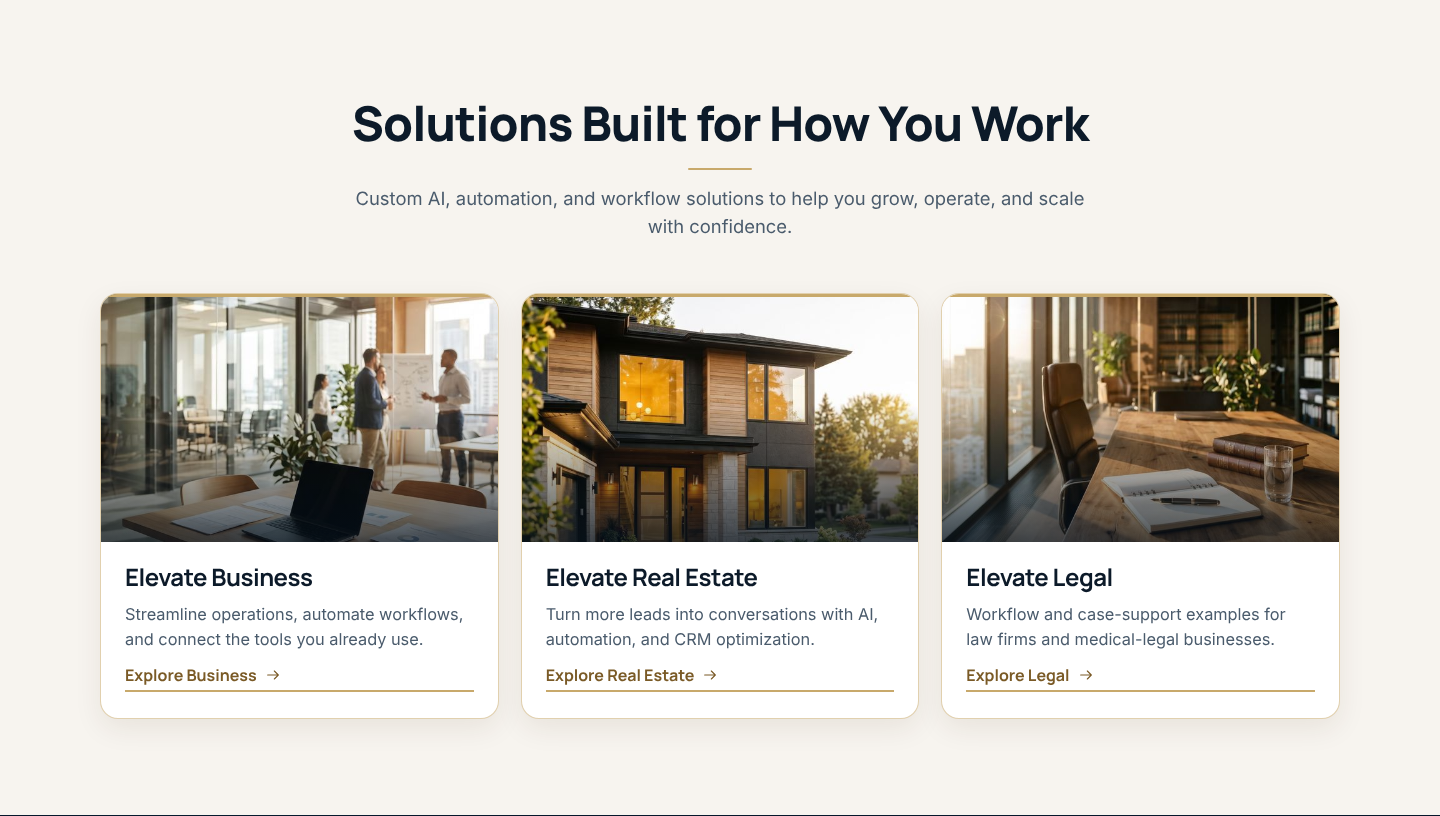
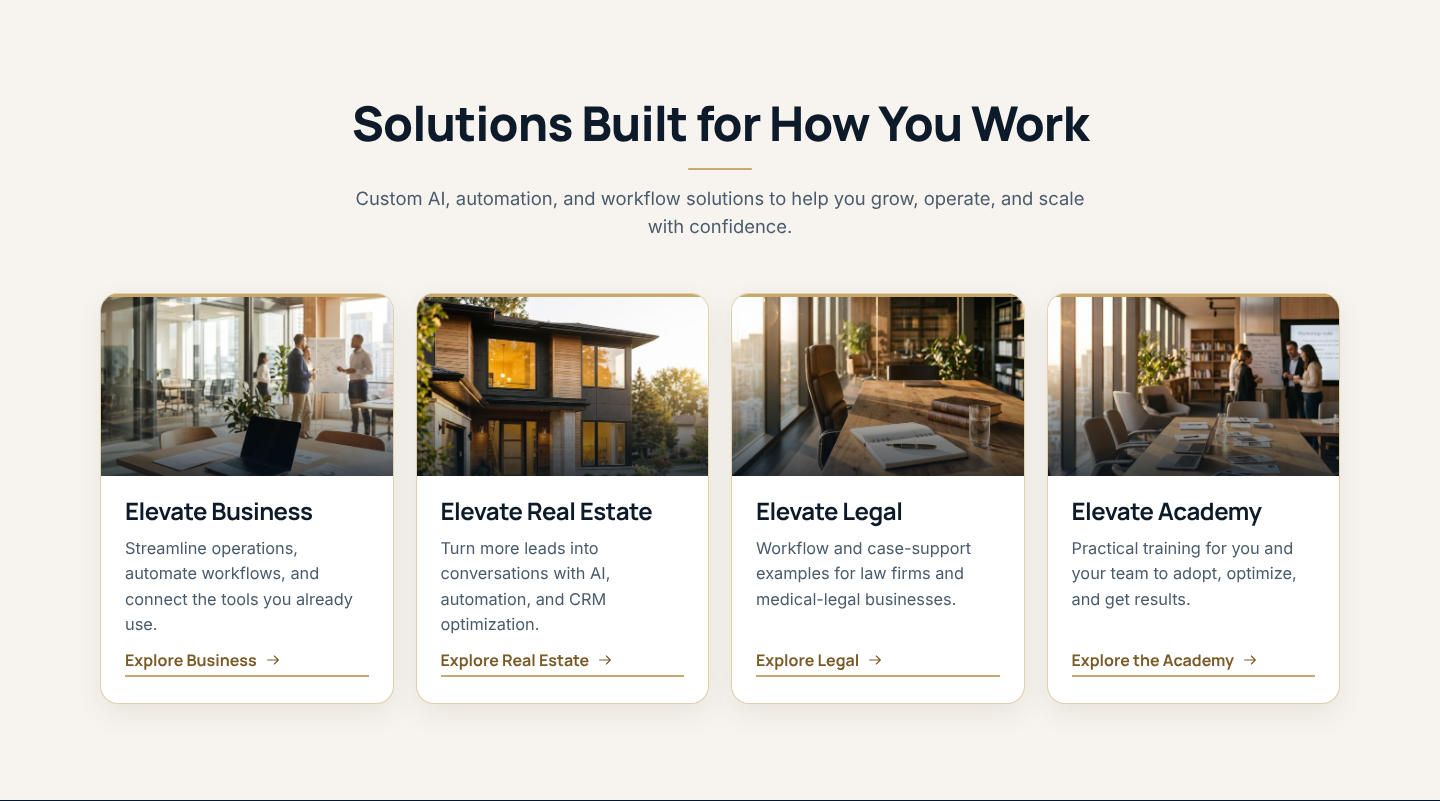
Restore Academy card, add Academy page, add eight Marblism agent faces
Claude-Session: https://claude.ai/code/session_01FHNhpcz1vSgsRca8SZZPd6

Changed region(s): [[0.0625, 0.3433, 0.9375, 0.8739], [0.25, 0.1248, 0.75, 0.3121]]

diff --git a/academy/index.html b/academy/index.html
@@ -1,0 +1,162 @@
+<!DOCTYPE html>
+<html lang="en">
+<head>
+<meta charset="utf-8">
+<meta name="viewport" content="width=device-width, initial-scale=1">
+<title>Elevate Academy | Elevate Ops 360</title>
+<meta name="description" content="Events calendar, training videos, and a link to the Parsons Learning Academy from Elevate Ops 360.">
+<link rel="canonical" href="https://www.elevateops360.com/academy/">
+<link rel="preload" href="/fonts/manrope-latin-wght-normal.woff2" as="font" type="font/woff2" crossorigin>
+<link rel="preload" href="/fonts/inter-latin-wght-normal.woff2" as="font" type="font/woff2" crossorigin>
+<link rel="stylesheet" href="/styles.css">
+<link rel="stylesheet" href="/qa-fixes.css">
+<link rel="stylesheet" href="/hybrid.css">
+<link rel="stylesheet" href="/solutions.css">
+<link rel="stylesheet" href="/academy/academy.css">
+<link rel="icon" type="image/png" href="/assets/favicon-official-64.png">
+</head>
+<body>
+<!-- Icon sprite -->
+<svg width="0" height="0" style="position:absolute" aria-hidden="true">
+  <symbol id="i-user" viewBox="0 0 24 24"><circle cx="9" cy="8" r="3.5"/><path d="M2.5 20c.6-3.6 3.3-5.5 6.5-5.5s5.9 1.9 6.5 5.5M18 8v6M15 11h6"/></symbol>
+  <symbol id="i-chat" viewBox="0 0 24 24"><path d="M4 5h16v11H10l-4.5 3.5V16H4z"/><path d="M8.5 10.5h.01M12 10.5h.01M15.5 10.5h.01"/></symbol>
+  <symbol id="i-layers" viewBox="0 0 24 24"><path d="m12 3 9 4.5-9 4.5-9-4.5z"/><path d="m3 12 9 4.5 9-4.5M3 16.5 12 21l9-4.5"/></symbol>
+  <symbol id="i-cal" viewBox="0 0 24 24"><rect x="3.5" y="5" width="17" height="15" rx="2.5"/><path d="M3.5 10h17M8 3v4M16 3v4M9 15l2.2 2.2L15.5 13"/></symbol>
+  <symbol id="i-bolt" viewBox="0 0 24 24"><path d="M13 2.5 5 13.5h6l-1 8 8-11h-6z"/></symbol>
+  <symbol id="i-chart" viewBox="0 0 24 24"><path d="M4 20V10M10 20V4M16 20v-8M22 20H2"/></symbol>
+  <symbol id="i-brief" viewBox="0 0 24 24"><rect x="3" y="7" width="18" height="13" rx="2.5"/><path d="M8.5 7V5a1.5 1.5 0 0 1 1.5-1.5h4A1.5 1.5 0 0 1 15.5 5v2M3 13h18"/></symbol>
+  <symbol id="i-home" viewBox="0 0 24 24"><path d="m3 11 9-7.5 9 7.5M5.5 9.5V20h13V9.5M10 20v-6h4v6"/></symbol>
+  <symbol id="i-scale" viewBox="0 0 24 24"><path d="M12 3v18M7 21h10M5 7h14M5 7l-3 7a3.5 3.5 0 0 0 6 0zM19 7l-3 7a3.5 3.5 0 0 0 6 0z"/></symbol>
+  <symbol id="i-cap" viewBox="0 0 24 24"><path d="m2 9 10-5 10 5-10 5z"/><path d="M6 11.5V16c0 1.4 2.7 3 6 3s6-1.6 6-3v-4.5M22 9v6"/></symbol>
+  <symbol id="i-play" viewBox="0 0 24 24"><circle cx="12" cy="12" r="9.5"/><path d="m10 8.5 5 3.5-5 3.5z" fill="currentColor"/></symbol>
+  <symbol id="i-arrow" viewBox="0 0 24 24"><path d="M4 12h16M14 6l6 6-6 6"/></symbol>
+  <symbol id="i-check" viewBox="0 0 24 24"><circle cx="12" cy="12" r="9.5"/><path d="m8 12.3 2.8 2.8L16 9.5"/></symbol>
+  <symbol id="i-grid" viewBox="0 0 24 24"><rect x="3.5" y="3.5" width="7" height="7" rx="1.5"/><rect x="13.5" y="3.5" width="7" height="7" rx="1.5"/><rect x="3.5" y="13.5" width="7" height="7" rx="1.5"/><rect x="13.5" y="13.5" width="7" height="7" rx="1.5"/></symbol>
+  <symbol id="i-funnel" viewBox="0 0 24 24"><path d="M3 4h18l-7 8.5V20l-4-2v-5.5z"/></symbol>
+  <symbol id="i-gear" viewBox="0 0 24 24"><circle cx="12" cy="12" r="3.2"/><path d="M12 2.5v3M12 18.5v3M2.5 12h3M18.5 12h3M5.3 5.3l2.1 2.1M16.6 16.6l2.1 2.1M18.7 5.3l-2.1 2.1M7.4 16.6l-2.1 2.1"/></symbol>
+  <symbol id="i-bot" viewBox="0 0 24 24"><rect x="4" y="8" width="16" height="11" rx="3"/><path d="M12 4v4M9 13.5h.01M15 13.5h.01M9 16.5h6"/></symbol>
+  <symbol id="i-plug" viewBox="0 0 24 24"><path d="M9 3v5M15 3v5M6 8h12v3a6 6 0 0 1-12 0zM12 17v4"/></symbol>
+  <symbol id="i-doc" viewBox="0 0 24 24"><path d="M6 3h8l4 4v14H6z"/><path d="M14 3v4h4M9 12h6M9 16h6"/></symbol>
+  <symbol id="i-search" viewBox="0 0 24 24"><circle cx="11" cy="11" r="6.5"/><path d="m16 16 5 5"/></symbol>
+  <symbol id="i-people" viewBox="0 0 24 24"><circle cx="9" cy="8" r="3.2"/><circle cx="17" cy="9.5" r="2.5"/><path d="M2.5 20c.5-3.4 3-5.2 6.5-5.2s6 1.8 6.5 5.2M16 14.6c2.6.1 4.6 1.5 5 4.4"/></symbol>
+  <symbol id="i-shield" viewBox="0 0 24 24"><path d="M12 3 4.5 6v6c0 4.6 3.2 7.8 7.5 9 4.3-1.2 7.5-4.4 7.5-9V6z"/><path d="m9 12 2.2 2.2L15.5 10"/></symbol>
+</svg>
+
+
+<a class="skip" href="#main">Skip to main content</a>
+<header class="site-header">
+  <nav class="wrap nav" aria-label="Primary">
+    <a class="brand" href="/" aria-label="Elevate Ops 360 home"><img src="/assets/mark-official-108.png" alt="" width="54" height="52"><span class="brand-text">Elevate <span>Ops 360</span></span></a>
+    <button class="menu-btn" aria-expanded="false" aria-controls="primary-nav" aria-label="Open menu">&#9776;</button>
+    <ul class="nav-links" id="primary-nav">
+      <li><a href="/solutions/">Solutions</a></li>
+      <li><a href="/solutions/real-estate/">Real Estate</a></li>
+      <li><a href="/solutions/business/">Business</a></li>
+      <li><a href="/solutions/legal/">Legal</a></li>
+      <li><a href="/#nexus">Nexus</a></li>
+      <li><a href="/academy/" aria-current="page">Academy</a></li>
+      <li class="nav-cta-m"><a class="btn btn-gold btn-sm" href="https://calendly.com/sherriparsonsrealestate/elevate-ai-onboarding">Book an AI Strategy Call</a></li>
+    </ul>
+    <a class="btn btn-gold nav-cta" href="https://calendly.com/sherriparsonsrealestate/elevate-ai-onboarding"><svg class="icon"><use href="#i-cal"/></svg>Book an AI Strategy Call</a>
+  </nav>
+</header>
+<main id="main" tabindex="-1">
+<section class="sec ac-hero">
+  <div class="wrap">
+    <p class="eyebrow">Elevate Academy</p>
+    <h1>Learn to put AI to work in your business.</h1>
+    <p class="lede">Live training, recordings, and hands-on learning to help you and your team adopt, optimize, and get results.</p>
+    <div class="cta-row">
+      <a class="btn btn-gold" href="#events">See Upcoming Events</a>
+      <a class="btn btn-ghost" href="#learning-academy">Parsons Learning Academy</a>
+    </div>
+  </div>
+</section>
+
+<section class="sec" id="events" aria-labelledby="ev-h">
+  <div class="wrap">
+    <div class="sec-head"><h2 id="ev-h">Events <span>calendar</span></h2><p>Live trainings and masterclasses from Elevate Ops 360.</p></div>
+    <div class="cal">
+      <div class="cal-bar">
+        <button type="button" class="btn btn-ghost btn-sm" id="cal-prev" aria-label="Previous month">&larr;</button>
+        <h3 id="cal-title" aria-live="polite"></h3>
+        <button type="button" class="btn btn-ghost btn-sm" id="cal-next" aria-label="Next month">&rarr;</button>
+      </div>
+      <div class="cal-grid" id="cal-grid"></div>
+    </div>
+    <h3 class="ev-list-h">All events</h3>
+    <ul class="ev-list" id="ev-list"></ul>
+    <p class="fine" id="ev-empty" hidden>No upcoming events are scheduled right now. Check back soon.</p>
+  </div>
+</section>
+
+<section class="sec" id="videos" aria-labelledby="vid-h">
+  <div class="wrap">
+    <div class="sec-head"><h2 id="vid-h">Training <span>videos</span></h2><p>Recordings and walkthroughs will appear here.</p></div>
+    <div class="vid-grid">
+      <article class="vid"><div class="vid-ph" role="img" aria-label="Video placeholder"><svg class="icon" aria-hidden="true"><use href="#i-play"/></svg></div><h3>Video title coming soon</h3><p>Placeholder for a training recording.</p></article>
+      <article class="vid"><div class="vid-ph" role="img" aria-label="Video placeholder"><svg class="icon" aria-hidden="true"><use href="#i-play"/></svg></div><h3>Video title coming soon</h3><p>Placeholder for a training recording.</p></article>
+      <article class="vid"><div class="vid-ph" role="img" aria-label="Video placeholder"><svg class="icon" aria-hidden="true"><use href="#i-play"/></svg></div><h3>Video title coming soon</h3><p>Placeholder for a training recording.</p></article>
+    </div>
+  </div>
+</section>
+
+<section class="sec" id="learning-academy" aria-labelledby="pla-h">
+  <div class="wrap">
+    <div class="pla">
+      <div><h2 id="pla-h">Parsons Learning <span>Academy</span></h2><p>Go deeper with self-paced courses and learning paths in our Parsons Learning Academy.</p></div>
+      <a class="btn btn-gold" id="pla-link" href="https://train.elevateops360.com" target="_blank" rel="noopener">Open the Parsons Learning Academy<span class="sr-only"> (opens in a new tab)</span></a>
+    </div>
+  </div>
+</section>
+</main>
+<footer class="foot"><div class="wrap"><div class="foot-grid"><div><a class="brand" href="/"><img src="/assets/mark-official-108.png" alt="" width="54" height="52"><span class="brand-text">Elevate <span>Ops 360</span></span></a><p style="margin-top:14px;max-width:34ch">Business Problems. Smarter Solutions. Real Results.</p></div><div><h3>Explore</h3><ul><li><a href="/solutions/">Solutions</a></li><li><a href="/solutions/real-estate/">Real Estate</a></li><li><a href="/solutions/business/">Business</a></li><li><a href="/solutions/legal/">Legal</a></li><li><a href="/nexus/">Nexus</a></li><li><a href="/trainyourbrain/">Training</a></li></ul></div><div><h3>Get started</h3><ul><li><a href="https://calendly.com/sherriparsonsrealestate/elevate-ai-onboarding">Book an AI Strategy Call</a></li><li><a href="/live/">Live events</a></li><li><a href="mailto:hello@elevateops360.com">hello@elevateops360.com</a></li></ul></div></div><div class="legal"><span>&copy; 2026 Elevate Ops 360.</span><span><a href="/privacy.html">Privacy Policy</a> &middot; <a href="mailto:hello@elevateops360.com">hello@elevateops360.com</a></span></div></div></footer>
+<script>
+(function(){
+/* Add events here. date = YYYY-MM-DD (end optional). */
+var EVENTS=[
+ {title:"Train Your Marblism Company Brain (5-day live series)",date:"2026-10-26",end:"2026-10-30",time:"4 PM Eastern",url:"/trainyourbrain/"},
+ {title:"CRM Masterclass",date:"2026-11-17",time:"",url:"/live/"}
+];
+var MN=["January","February","March","April","May","June","July","August","September","October","November","December"];
+var today=new Date(),y=today.getFullYear(),m=today.getMonth();
+function pd(s){var a=s.split("-");return new Date(+a[0],+a[1]-1,+a[2]);}
+function key(d){return d.getFullYear()+"-"+(d.getMonth()+1)+"-"+d.getDate();}
+function eventsOn(d){return EVENTS.filter(function(e){var s=pd(e.date),f=pd(e.end||e.date);return d>=s&&d<=f;});}
+function render(){
+ document.getElementById("cal-title").textContent=MN[m]+" "+y;
+ var g=document.getElementById("cal-grid");g.innerHTML="";
+ ["Sun","Mon","Tue","Wed","Thu","Fri","Sat"].forEach(function(n){var h=document.createElement("div");h.className="cal-h";h.textContent=n;g.appendChild(h);});
+ var first=new Date(y,m,1).getDay(),days=new Date(y,m+1,0).getDate();
+ for(var i=0;i<first;i++){var e=document.createElement("div");e.className="cal-d empty";g.appendChild(e);}
+ for(var d=1;d<=days;d++){
+  var dt=new Date(y,m,d),ev=eventsOn(dt),c=document.createElement("div");
+  c.className="cal-d"+(ev.length?" has":"")+(key(dt)===key(today)?" today":"");
+  c.innerHTML='<span class="n">'+d+'</span>';
+  ev.forEach(function(x){var a=document.createElement("a");a.href=x.url;a.className="cal-e";a.textContent=x.title;c.appendChild(a);});
+  g.appendChild(c);
+ }
+}
+document.getElementById("cal-prev").onclick=function(){m--;if(m<0){m=11;y--;}render();};
+document.getElementById("cal-next").onclick=function(){m++;if(m>11){m=0;y++;}render();};
+render();
+var ul=document.getElementById("ev-list"),now=new Date(today.getFullYear(),today.getMonth(),today.getDate());
+var sorted=EVENTS.slice().sort(function(a,b){return pd(b.date)-pd(a.date);});
+var upcoming=0;
+sorted.forEach(function(e){
+ var s=pd(e.date),f=pd(e.end||e.date),past=f<now;if(!past)upcoming++;
+ var fmt=function(d){return MN[d.getMonth()].slice(0,3)+" "+d.getDate()+", "+d.getFullYear();};
+ var li=document.createElement("li");li.className="ev"+(past?" past":"");
+ li.innerHTML='<div><b></b><span class="when"></span></div><span class="tag"></span>';
+ li.querySelector("b").innerHTML='<a href="'+e.url+'"></a>';li.querySelector("a").textContent=e.title;
+ li.querySelector(".when").textContent=fmt(s)+(e.end?" to "+fmt(f):"")+(e.time?" · "+e.time:"");
+ li.querySelector(".tag").textContent=past?"Past event":"Upcoming";
+ ul.appendChild(li);
+});
+if(!upcoming)document.getElementById("ev-empty").hidden=false;
+var b=document.querySelector('.menu-btn'),n=document.getElementById('primary-nav');
+if(b&&n)b.addEventListener('click',function(){var o=n.classList.toggle('open');b.setAttribute('aria-expanded',o);b.setAttribute('aria-label',o?'Close menu':'Open menu');});
+})();
+</script>
+</body>
+</html>

diff --git a/index.html b/index.html
@@ -54,7 +54,7 @@
       <li><a href="#solutions">Solutions</a></li>
       <li><a href="#industries">Industries</a></li>
       <li><a href="#nexus">Nexus</a></li>
-      <li><a href="/trainyourbrain/">Academy</a></li>
+      <li><a href="/academy/">Academy</a></li>
       <li><a href="#about">About</a></li>
       <li class="nav-cta-m"><a class="btn btn-gold btn-sm" href="#consult">Book an AI Strategy Call</a></li>
     </ul>
@@ -205,7 +205,7 @@
       <h2>Solutions Built for <span>How You Work</span></h2>
       <p>Custom AI, automation, and workflow solutions to help you grow, operate, and scale with confidence.</p>
     </div>
-    <div class="cards4 cards3">
+    <div class="cards4">
       <article class="sol"><div class="sol-top t1 has-img"><img src="/assets/card-business.jpg" alt="Modern conference room with a team gathered around a table" width="640" height="397" decoding="async"></div>
         <div class="sol-body"><h3>Elevate Business</h3><p>Streamline operations, automate workflows, and connect the tools you already use.</p>
         <a class="more" href="/solutions/business/">Explore Business <svg class="icon"><use href="#i-arrow"/></svg></a></div></article>
@@ -215,6 +215,9 @@
       <article class="sol"><div class="sol-top t3 has-img"><img src="/assets/card-legal.jpg" alt="Bright office desk with a notebook and law books" width="640" height="397" decoding="async"></div>
         <div class="sol-body"><h3>Elevate Legal</h3><p>Workflow and case-support examples for law firms and medical-legal businesses.</p>
         <a class="more" href="/solutions/legal/">Explore Legal <svg class="icon"><use href="#i-arrow"/></svg></a></div></article>
+      <article class="sol" id="academy"><div class="sol-top t4 has-img"><img src="/assets/card-academy.jpg" alt="Conference room set up for a training session" width="640" height="397" loading="lazy" decoding="async"></div>
+        <div class="sol-body"><h3>Elevate Academy</h3><p>Practical training for you and your team to adopt, optimize, and get results.</p>
+        <a class="more" href="/academy/">Explore the Academy <svg class="icon"><use href="#i-arrow"/></svg></a></div></article>
     </div>
   </div>
 </section>
@@ -353,7 +356,7 @@
       <p class="lead">Marblism gives you AI employees that handle everyday work such as email, scheduling, social media, lead follow-up, your website, search visibility, calls, and more. Elevate Ops 360 helps you choose, set up, and put them to work.</p>
     </div>
 
-    <ul class="agents" aria-label="Marblism AI employees"><li class="agent-card"><span class="face" data-agent="eva" aria-hidden="true">E</span><div><b>Eva</b><span class="role">Executive Assistant</span><span class="what">Emails answered, meetings booked, notes taken.</span></div></li><li class="agent-card"><span class="face" data-agent="sonny" aria-hidden="true">S</span><div><b>Sonny</b><span class="role">Social Media Manager</span><span class="what">Spots what is trending and creates posts and videos for your business.</span></div></li><li class="agent-card"><span class="face" data-agent="stan" aria-hidden="true">S</span><div><b>Stan</b><span class="role">Lead Generation</span><span class="what">Finds ideal customers and follows up until they reply.</span></div></li><li class="agent-card"><span class="face" data-agent="walter" aria-hidden="true">W</span><div><b>Walter</b><span class="role">Website Builder</span><span class="what">Builds your website and keeps improving it after launch.</span></div></li><li class="agent-card"><span class="face" data-agent="penny" aria-hidden="true">P</span><div><b>Penny</b><span class="role">SEO Expert</span><span class="what">Helps your business get found on Google and in AI search.</span></div></li><li class="agent-card"><span class="face" data-agent="rachel" aria-hidden="true">R</span><div><b>Rachel</b><span class="role">Receptionist</span><span class="what">Answers calls day and night and books jobs into your calendar.</span></div></li><li class="agent-card"><span class="face" data-agent="linda" aria-hidden="true">L</span><div><b>Linda</b><span class="role">Legal Assistant</span></div></li></ul>
+    <ul class="agents" aria-label="Marblism AI employees"><li class="agent-card"><span class="face"><img src="assets/marblism/agents/eva.webp" alt="Eva, Marblism AI employee" width="56" height="56" loading="lazy" decoding="async"></span><div><b>Eva</b><span class="role">Executive Assistant</span><span class="what">Emails answered, meetings booked, notes taken.</span></div></li><li class="agent-card"><span class="face"><img src="assets/marblism/agents/sonny.webp" alt="Sonny, Marblism AI employee" width="56" height="56" loading="lazy" decoding="async"></span><div><b>Sonny</b><span class="role">Social Media Manager</span><span class="what">Spots what is trending and creates posts and videos for your business.</span></div></li><li class="agent-card"><span class="face"><img src="assets/marblism/agents/stan.webp" alt="Stan, Marblism AI employee" width="56" height="56" loading="lazy" decoding="async"></span><div><b>Stan</b><span class="role">Lead Generation</span><span class="what">Finds ideal customers and follows up until they reply.</span></div></li><li class="agent-card"><span class="face"><img src="assets/marblism/agents/walter.webp" alt="Walter, Marblism AI employee" width="56" height="56" loading="lazy" decoding="async"></span><div><b>Walter</b><span class="role">Website Builder</span><span class="what">Builds your website and keeps improving it after launch.</span></div></li><li class="agent-card"><span class="face"><img src="assets/marblism/agents/penny.webp" alt="Penny, Marblism AI employee" width="56" height="56" loading="lazy" decoding="async"></span><div><b>Penny</b><span class="role">SEO Expert</span><span class="what">Helps your business get found on Google and in AI search.</span></div></li><li class="agent-card"><span class="face"><img src="assets/marblism/agents/rachel.webp" alt="Rachel, Marblism AI employee" width="56" height="56" loading="lazy" decoding="async"></span><div><b>Rachel</b><span class="role">Receptionist</span><span class="what">Answers calls day and night and books jobs into your calendar.</span></div></li><li class="agent-card"><span class="face"><img src="assets/marblism/agents/linda.webp" alt="Linda, Marblism AI employee" width="56" height="56" loading="lazy" decoding="async"></span><div><b>Linda</b><span class="role">Legal Assistant</span></div></li><li class="agent-card"><span class="face"><img src="assets/marblism/agents/allison.webp" alt="Allison, Marblism AI employee" width="56" height="56" loading="lazy" decoding="async"></span><div><b>Allison</b><span class="role">Now in beta testing</span></div></li></ul>
 
     <div class="marb-grid">
       <div class="offer" aria-labelledby="offer-h">
@@ -362,7 +365,7 @@
         <p>Customers signing up through Sherri's referral link receive an extra 25% off their Marblism subscription for as long as they remain subscribed.</p>
         <div class="cta-row" style="margin-bottom:0">
           <a class="btn btn-gold" href="https://marblism.com?via=sherri-parsons" target="_blank" rel="noopener sponsored">Get My 25% Discount<span class="sr-only"> (opens Marblism in a new tab)</span></a>
-          <a class="btn btn-ghost" href="/trainyourbrain/">Explore Training &amp; Implementation</a>
+          <a class="btn btn-ghost" href="/academy/">Explore Training &amp; Implementation</a>
         </div>
       </div>
       <div class="marb-help">
@@ -425,7 +428,7 @@
         <a class="brand" href="#top"><img src="assets/mark-official-108.png" alt="" width="54" height="52"><span class="brand-text">Elevate <span>Ops 360</span></span></a>
         <p style="margin-top:14px;max-width:34ch">Business Problems. Smarter Solutions. Real Results.</p>
       </div>
-      <div><h3>Explore</h3><ul><li><a href="#solutions">Solutions</a></li><li><a href="/nexus/">Nexus</a></li><li><a href="#how">How It Works</a></li><li><a href="#marblism">Marblism</a></li><li><a href="/trainyourbrain/">Training</a></li></ul></div>
+      <div><h3>Explore</h3><ul><li><a href="#solutions">Solutions</a></li><li><a href="/nexus/">Nexus</a></li><li><a href="#how">How It Works</a></li><li><a href="#marblism">Marblism</a></li><li><a href="/academy/">Academy</a></li></ul></div>
       <div><h3>Get started</h3><ul><li><a href="#consult">Book an AI Strategy Call</a></li><li><a href="/live/">Live events</a></li><li><a href="mailto:hello@elevateops360.com">hello@elevateops360.com</a></li></ul></div>
     </div>
     <div class="legal"><span>&copy; 2026 Elevate Ops 360.</span><span><a href="/privacy.html">Privacy Policy</a> &middot; <a href="mailto:hello@elevateops360.com">hello@elevateops360.com</a></span></div>

diff --git a/academy/academy.css b/academy/academy.css
@@ -1,0 +1,17 @@
+.ac-hero{padding:72px 0 40px}.ac-hero h1{font-size:clamp(2.2rem,5vw,3.6rem);max-width:20ch;margin:8px 0 14px}.ac-hero .lede{max-width:46ch}
+.cal{border:1px solid rgba(0,0,0,.12);border-radius:16px;padding:16px;background:#fff}
+.cal-bar{display:flex;align-items:center;justify-content:space-between;margin-bottom:12px}.cal-bar h3{margin:0}
+.cal-grid{display:grid;grid-template-columns:repeat(7,minmax(0,1fr));gap:4px}
+.cal-h{font-weight:700;font-size:.8rem;text-align:center;padding:4px;color:#4a5a66}
+.cal-d{min-height:84px;border:1px solid rgba(0,0,0,.08);border-radius:8px;padding:4px;font-size:.8rem}
+.cal-d.empty{border:0}.cal-d.today{outline:2px solid #c8a96b}.cal-d.has{background:#f6efdd}
+.cal-d .n{display:block;font-weight:700;color:#33424d}.cal-e{display:block;font-size:.72rem;line-height:1.25;margin-top:2px;color:#5a4410;font-weight:600;overflow:hidden}
+.fine#ev-empty{color:#33424d;font-size:1rem;margin-top:12px}.ev-list-h{margin:32px 0 12px}.ev-list{list-style:none;padding:0;margin:0;display:grid;gap:10px}
+.ev{display:flex;justify-content:space-between;gap:12px;align-items:center;padding:14px 16px;border:1px solid rgba(0,0,0,.12);border-radius:12px;background:#fff}
+.ev b{display:block}.ev .when{display:block;font-size:.9rem;color:#4a5a66}.ev .tag{font-size:.75rem;font-weight:700;padding:4px 10px;border-radius:99px;background:#e8f4f3;color:#0b5a57;white-space:nowrap}.ev.past .tag{background:#eee;color:#555}
+.vid-grid{display:grid;grid-template-columns:repeat(3,minmax(0,1fr));gap:20px}
+.vid-ph{aspect-ratio:16/9;border-radius:14px;display:grid;place-items:center;background:linear-gradient(160deg,#0a2540,#16466f);color:#e9d3a2}.vid-ph .icon{width:56px;height:56px}
+.vid h3{margin:12px 0 4px}.vid p{margin:0;color:#4a5a66}
+.pla{display:flex;justify-content:space-between;gap:24px;align-items:center;flex-wrap:wrap;padding:32px;border-radius:18px;background:#f6efdd;border:1px solid #c8a96b}.pla h2{margin:0 0 8px}.pla p{margin:0;max-width:52ch}
+.sr-only{position:absolute;width:1px;height:1px;overflow:hidden;clip:rect(0 0 0 0);white-space:nowrap}
+@media(max-width:760px){.vid-grid{grid-template-columns:1fr}.cal-d{min-height:56px}.cal-e{font-size:0;height:6px;background:#c8a96b;border-radius:3px}}

diff --git a/round2.css b/round2.css
@@ -11,7 +11,6 @@
 #featured-solutions .sec-head h2 span,#approach .sec-head h2 span{color:var(--ink)}
 
 /* 1. three solution cards */
-.cards3{grid-template-columns:repeat(3,1fr)}
 
 /* 2. featured solution cards */
 .feat-grid{display:grid;grid-template-columns:repeat(4,minmax(0,1fr));gap:22px}
@@ -99,7 +98,6 @@
   .agents{grid-template-columns:repeat(2,minmax(0,1fr))}
   .nx-intro,.nx-ai,.marb-grid,.works-grid{grid-template-columns:1fr}
 }
-@media (max-width:900px){.cards3{grid-template-columns:1fr}}
 @media (max-width:640px){
   .feat-grid,.agents,.nx-outcomes{grid-template-columns:1fr}
   .nx-ai{padding:24px}
